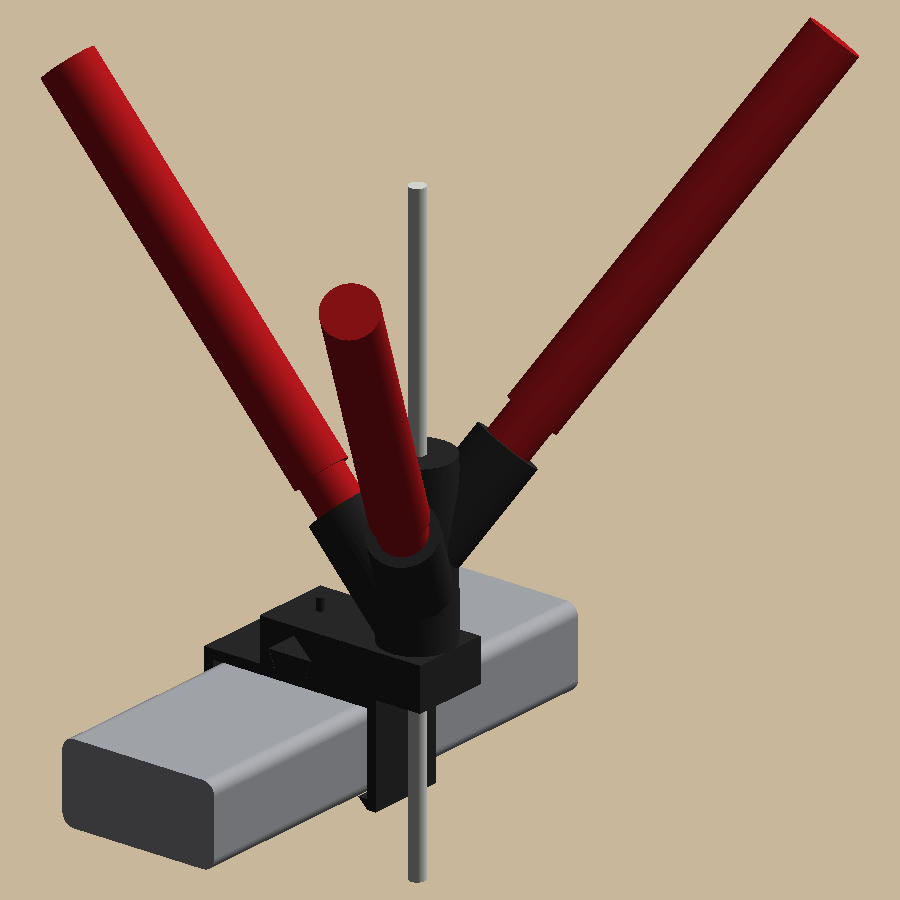
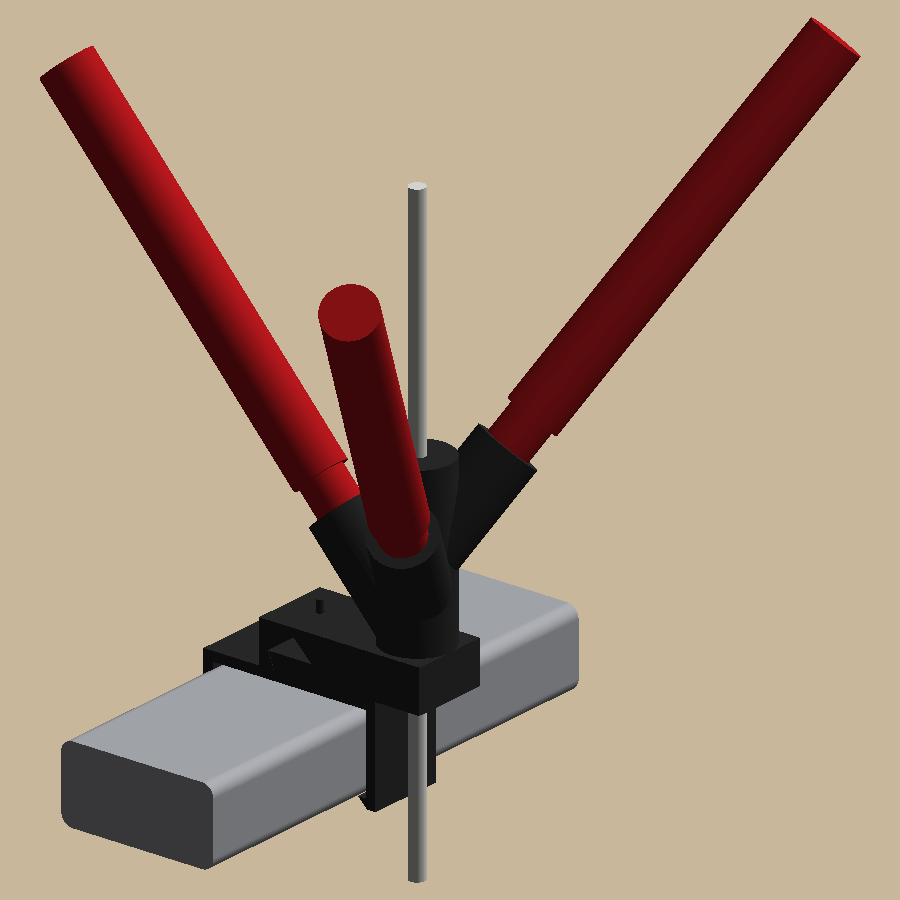
Sharpie colorizer: fit-test picks: 10.7 marker socket, 19.4 mm bar height

diff --git a/examples/sharpie-colorizer/sharpie_colorizer/params.py b/examples/sharpie-colorizer/sharpie_colorizer/params.py
@@ -9,11 +9,11 @@ from cadkit import Printer
 class Params:
     # measured: the A1's top frame bar
     bar_w: float = 40.0  # front to back (Y)
-    bar_h: float = 20.0  # (Z)
+    bar_h: float = 19.4  # (Z): clip slice 2 at 20.0 had >= 1 mm of vertical play (fit test, 2026-10-18)
     bar_r: float = 3.0  # corner radius: not measured, only used to model the bar
     # measured: Sharpie Fine Point
     marker_body_d: float = 13.0  # main body, behind the shoulder
-    marker_front_d: float = 11.0  # front section the socket grips
+    marker_front_d: float = 10.7  # front section the socket grips: ruler said 11, the fit test says it is snug at 10.7
     front_straight_l: float = 20.0  # straight part of the front section, from the shoulder
     shoulder_to_felt_long: float = 32.0  # the direct reading
     shoulder_to_felt_short: float = 28.5  # the pieces added up (20 + 2.5 round-in + 6 nose)
@@ -24,7 +24,7 @@ class Params:
     filament_d: float = 1.75
     tube_od: float = 4.0  # the A1's guide tube
     # fits: the fit-test plate picks these (one-line edits after printing it)
-    marker_fit_d: float = 11.0
+    marker_fit_d: float = 10.7  # fit test: 10.6 almost too tight, 10.8 slides in smoothly
     marker_fits: tuple = (10.6, 10.8, 11.0, 11.2, 11.4, 11.6)
     tube_fit_d: float = 4.1
     tube_fits: tuple = (4.0, 4.1, 4.2, 4.3)

diff --git a/examples/sharpie-colorizer/docs/measurements.md b/examples/sharpie-colorizer/docs/measurements.md
@@ -11,4 +11,12 @@
 | Shoulder to where the felt starts | 32 mm (the parts above add to ~28.5; rough) | the body shoulder | 2026-10-18 |
 | Felt tip | 5 mm long, 4 mm wide at the base, tapering to a point | where the felt leaves the nose | 2026-10-18 |
 
-All by ruler, ±0.5 mm. The fit test print settles the socket sizes.
+Fit-test results (printed in black, 0.20 mm Standard):
+
+| What | Result | Used |
+|---|---|---|
+| Marker socket | 10.6 "really tight, almost too tight"; 10.8 "nice but slides in smoothly" | `marker_fit_d` 10.7, and the marker's front section modelled at 10.7 (ruler said 11) |
+| Clip slice 2 (hook 2.0) on the bar | fits, but at least 1 mm too tall | `bar_h` 19.4 (the clip was built for 20.0 + 0.4 clearance) |
+| Tube hole | not reported yet | `tube_fit_d` 4.1 (default) |
+
+All ruler readings are ±0.5 mm. The fit test settles the socket sizes.

diff --git a/examples/sharpie-colorizer/docs/specs/2026-10-18-sharpie-colorizer-design.md b/examples/sharpie-colorizer/docs/specs/2026-10-18-sharpie-colorizer-design.md
@@ -108,4 +108,10 @@ different colors would mix, but that's a side effect and not a goal.
   - **The inlet is raised** so 0.8 mm of plastic separates its funnel from the top marker's nose bore. The column
     is now 52.6 mm tall.
   - **The slot is chamfered 0.4 mm where it meets the bed**, so elephant foot can't bind the rail.
+- **2026-10-18: fit-test results.**
+  - Marker socket is 10.7, between the almost-too-tight 10.6 and the smooth-sliding 10.8. The marker's front
+    section is modelled at 10.7 too.
+  - Clip hook stays 2.0 (slice 2).
+  - The bar's height is 19.4, not 20. Slice 2 had at least 1 mm of vertical play.
+  - Details are in `docs/measurements.md`.
 
